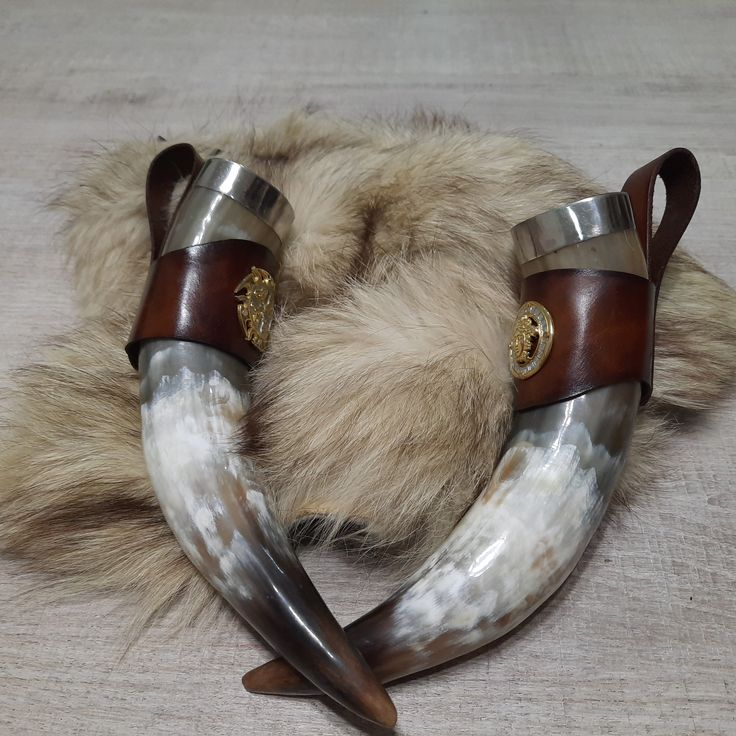
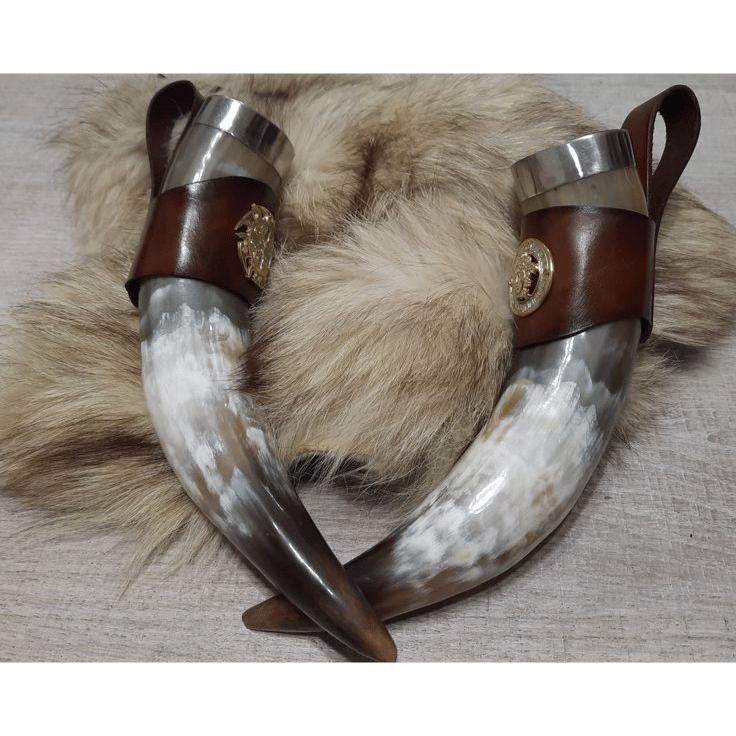
fixed product card styling

diff --git a/app/Components/ProductCard.js b/app/Components/ProductCard.js
@@ -1,21 +1,43 @@
-import React from 'react';
-import Link from 'next/link';
-import { motion } from 'framer-motion';
-import { ChevronRight } from 'lucide-react';
+import React from "react";
+import Image from "next/image";
+import { ChevronRight } from "lucide-react";
 
 const ProductCard = ({ product }) => {
   return (
-    <div className="bg-white rounded-lg shadow-lg overflow-hidden">
-      <img src={product.image} alt={product.name} className="w-full h-48 object-cover" />
-      <div className="p-4">
-        <h3 className="text-xl font-outfit font-semibold text-secondary-blue mb-2">{product.name}</h3>
-        <p className="text-sm font-openSans text-charcoal mb-4">
-          {product.description.substring(0, 100)}...
+    <div className="bg-white rounded-2xl shadow-lg overflow-hidden flex flex-col w-full ">
+      <div className="relative w-72 h-[14.4rem] desktop:w-60 desktop:h-48 mx-auto mt-4">
+        <Image
+          src={product.image}
+          alt={product.name}
+          layout="fill"
+          objectFit="cover"
+          className="rounded-2xl shadow-md h-full w-full "
+        />
+      </div>
+      <div className="pt-2 pb-6 px-6 flex-grow flex flex-col">
+        <h3 className="text-xl font-outfit font-semibold text-secondary-blue mb-2">
+          {product.name}
+        </h3>
+        <div className="flex space-x-2 mb-3">
+          {product.tags.map((tag, index) => (
+            <span
+              key={index}
+              className="bg-gray-200 text-xs font-openSans px-2 py-1 rounded"
+            >
+              {tag}
+            </span>
+          ))}
+        </div>
+        <p className="text-sm hidden desktop:flex font-openSans text-charcoal mb-4 flex-grow">
+          {product.description.substring(0, 80)}...
         </p>
-        <Link href={`/products/${product.slug}`} className="w-full bg-primary-red text-white font-outfit py-2 px-4 rounded-full flex items-center justify-center">
-          Get Info
+        <p className="text-sm desktop:hidden flex font-openSans text-charcoal mb-4 flex-grow">
+          {product.description.substring(0, 70)}...
+        </p>
+        <button className="w-full bg-primary-red rounded-full text-white font-outfit py-2 px-4 hover:bg-red-600 transition duration-300 flex items-center justify-center">
+          <span>Learn More</span>
           <ChevronRight className="ml-2 h-5 w-5" />
-        </Link>
+        </button>
       </div>
     </div>
   );

diff --git a/app/Components/ProductsShowcase.js b/app/Components/ProductsShowcase.js
@@ -208,7 +208,7 @@ const ProductShowcase = () => {
             <h2 className="text-2xl font-outfit text-charcoal font-semibold mb-4">
               Products
             </h2>
-            <div className="grid grid-cols-2 tablet:grid-cols-2 desktop:grid-cols-3 gap-4">
+            <div className="grid grid-cols-1 tablet:grid-cols-2 desktop:grid-cols-3 gap-4">
               {filteredProducts.map((product) => (
                 <ProductCard key={product.id} product={product} />
               ))}
